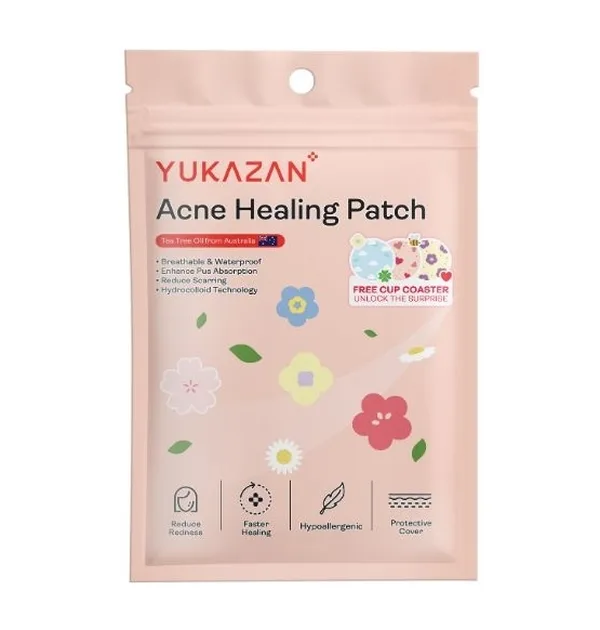
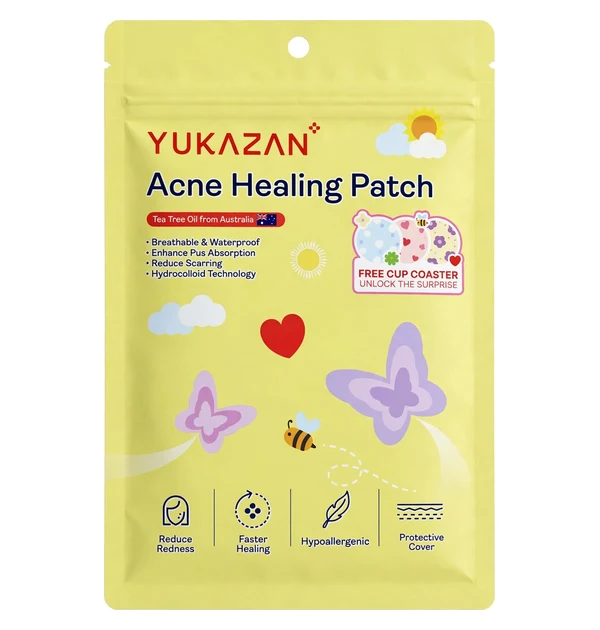
YUKAZAN: nueva foto del empaque
Claude-Session: https://claude.ai/code/session_01BqDxWaCmQTAAsE8W5GEoCv

diff --git a/js/app.js b/js/app.js
@@ -64,7 +64,7 @@ const PRODUCTOS = [
   { id:"yukazan-patch", marca:"YUKAZAN", nombre:"Acne Healing Patch Day · 30 parches", tipo:"Parches para granitos", precio:4990, badge:"SOS granitos",
     hook:"Parches invisibles para usar de día sobre granitos.",
     tagline:"Parches delgados que cubren el granito, lo protegen de tus manos y ayudan a que se vea menos durante el día.",
-    pk:"sachet", colores:["#F7CDBF","#E8473C","#3A2A2A"], fondo:"#FFFFFF", imagen:"img/yukazan-patch.webp",
+    pk:"sachet", colores:["#F3EC8A","#E8473C","#1F2A5C"], fondo:"#FFFFFF", imagen:"img/yukazan-patch.webp",
     beneficios:["Protegen el granito de la suciedad y las manos","Ayudan a absorber lo que sale del granito","Ayudan a reducir el enrojecimiento y las marcas","Transpirables, resistentes al agua e hipoalergénicos"],
     ingredientes:[["Hidrocoloide","Material que absorbe y protege la zona mientras sana."],["Aceite de árbol de té (Australia)","Ayuda a calmar la zona y cuidar la piel con tendencia a granitos."]],
     uso:["Limpia y seca bien la zona.","Pega el parche sobre el granito, sin cremas debajo.","Cámbialo cuando se vea blanco o después de unas horas."],
